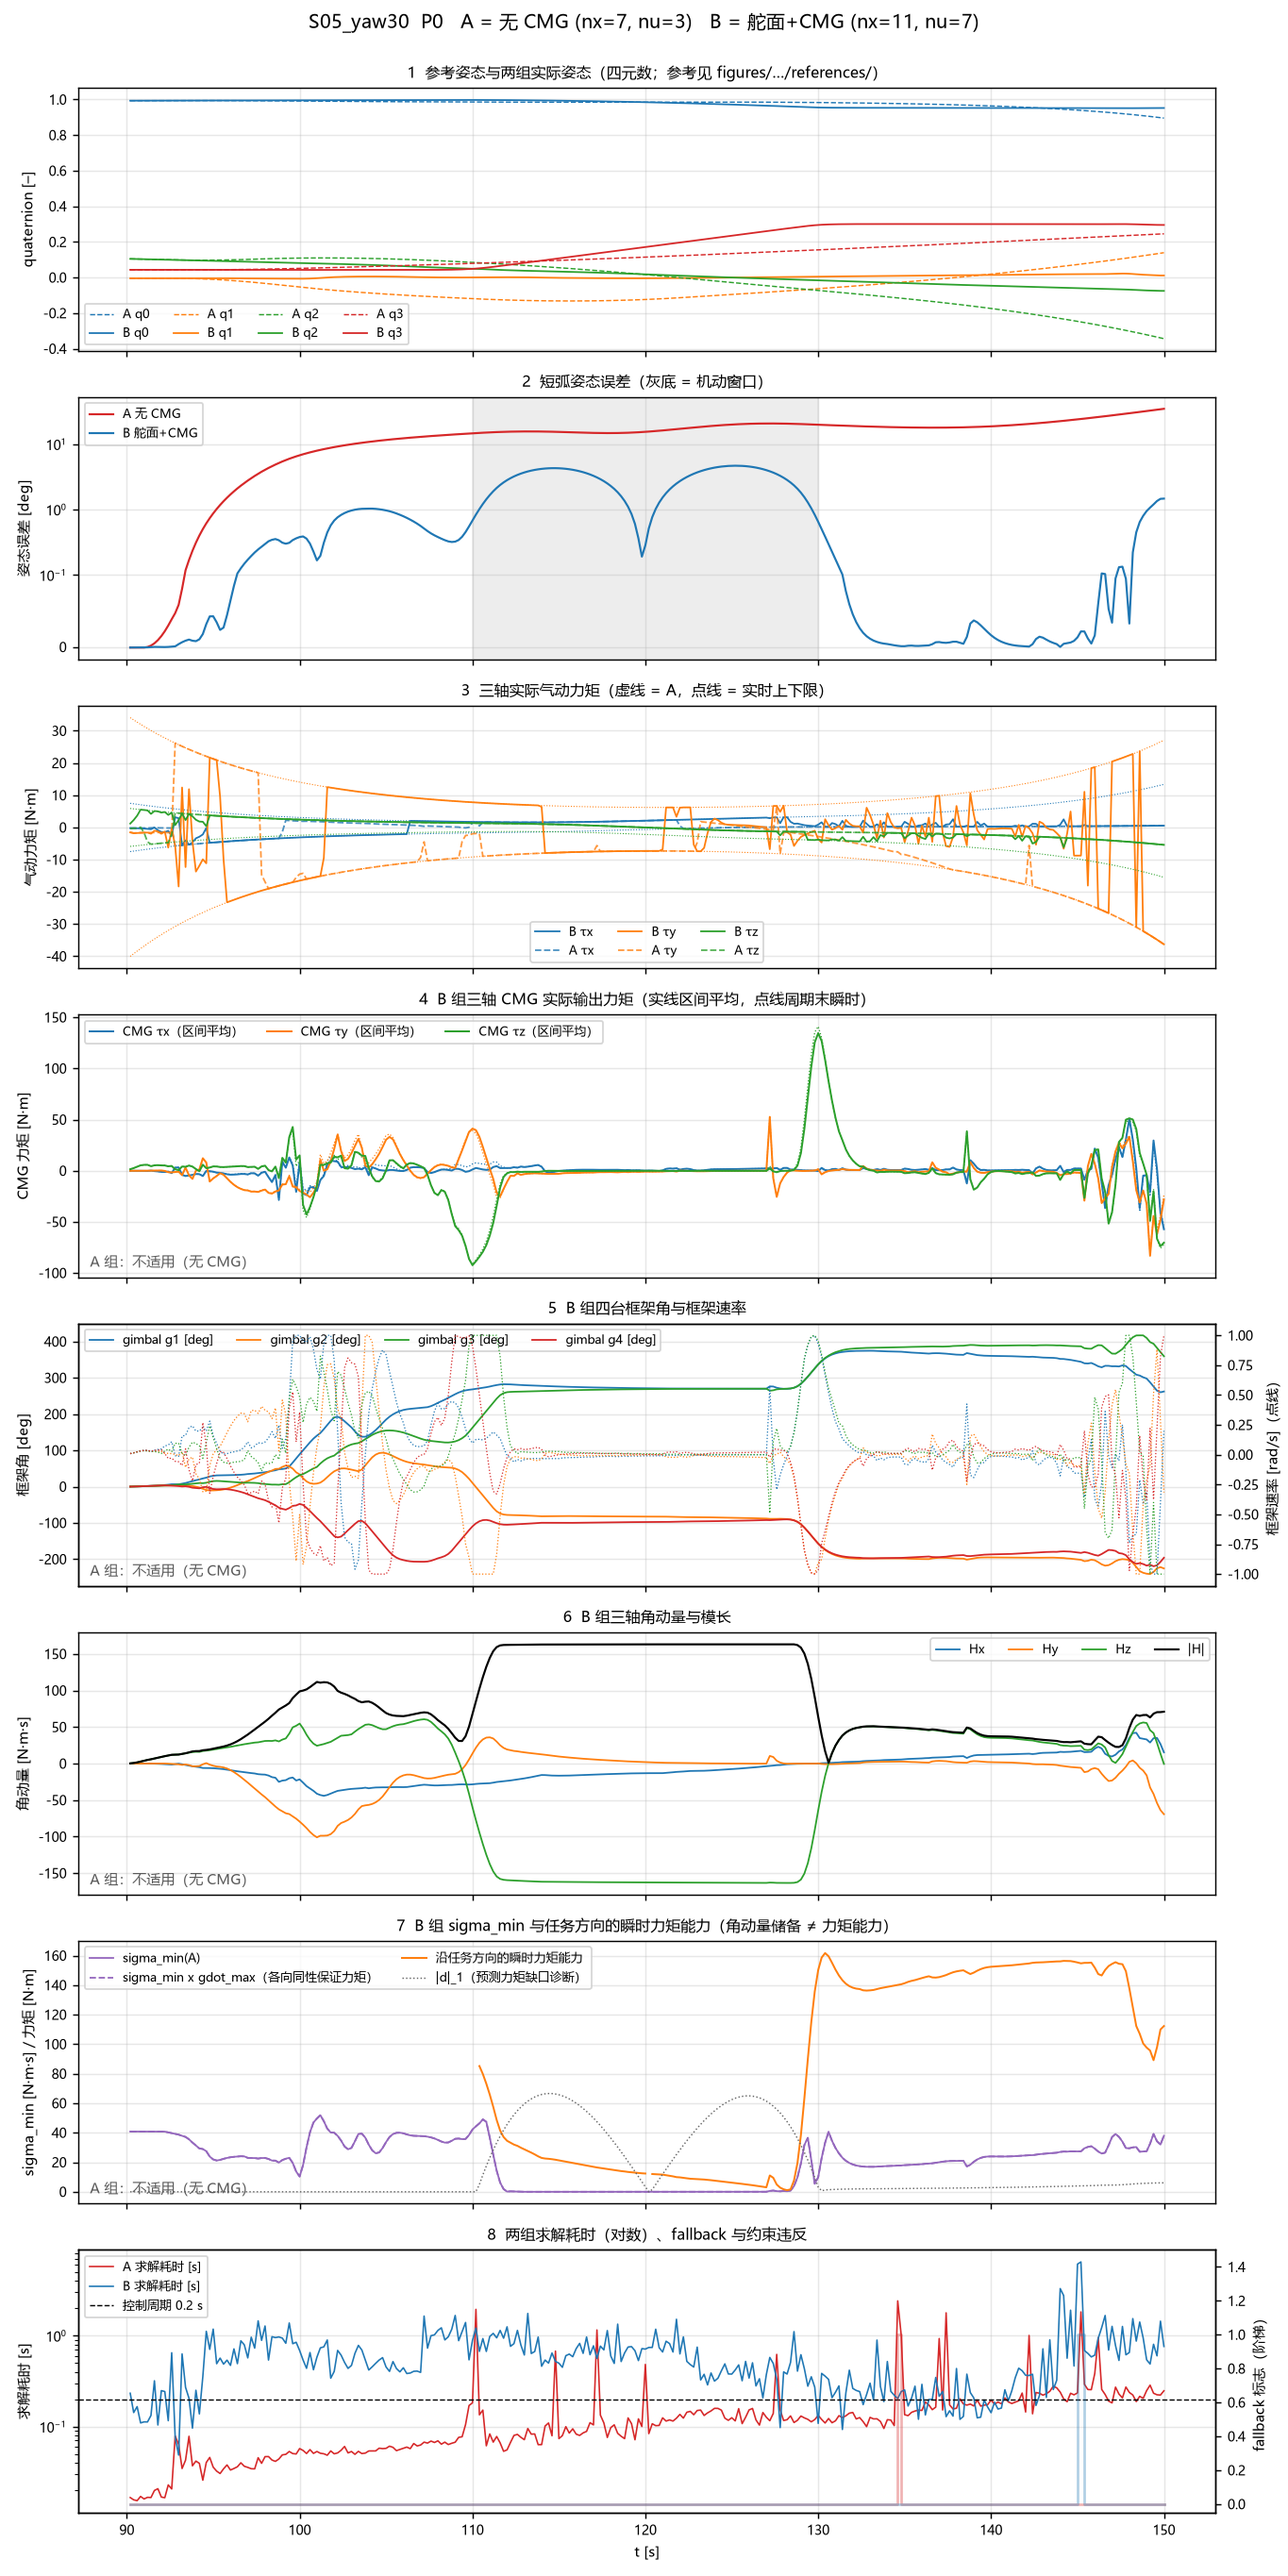
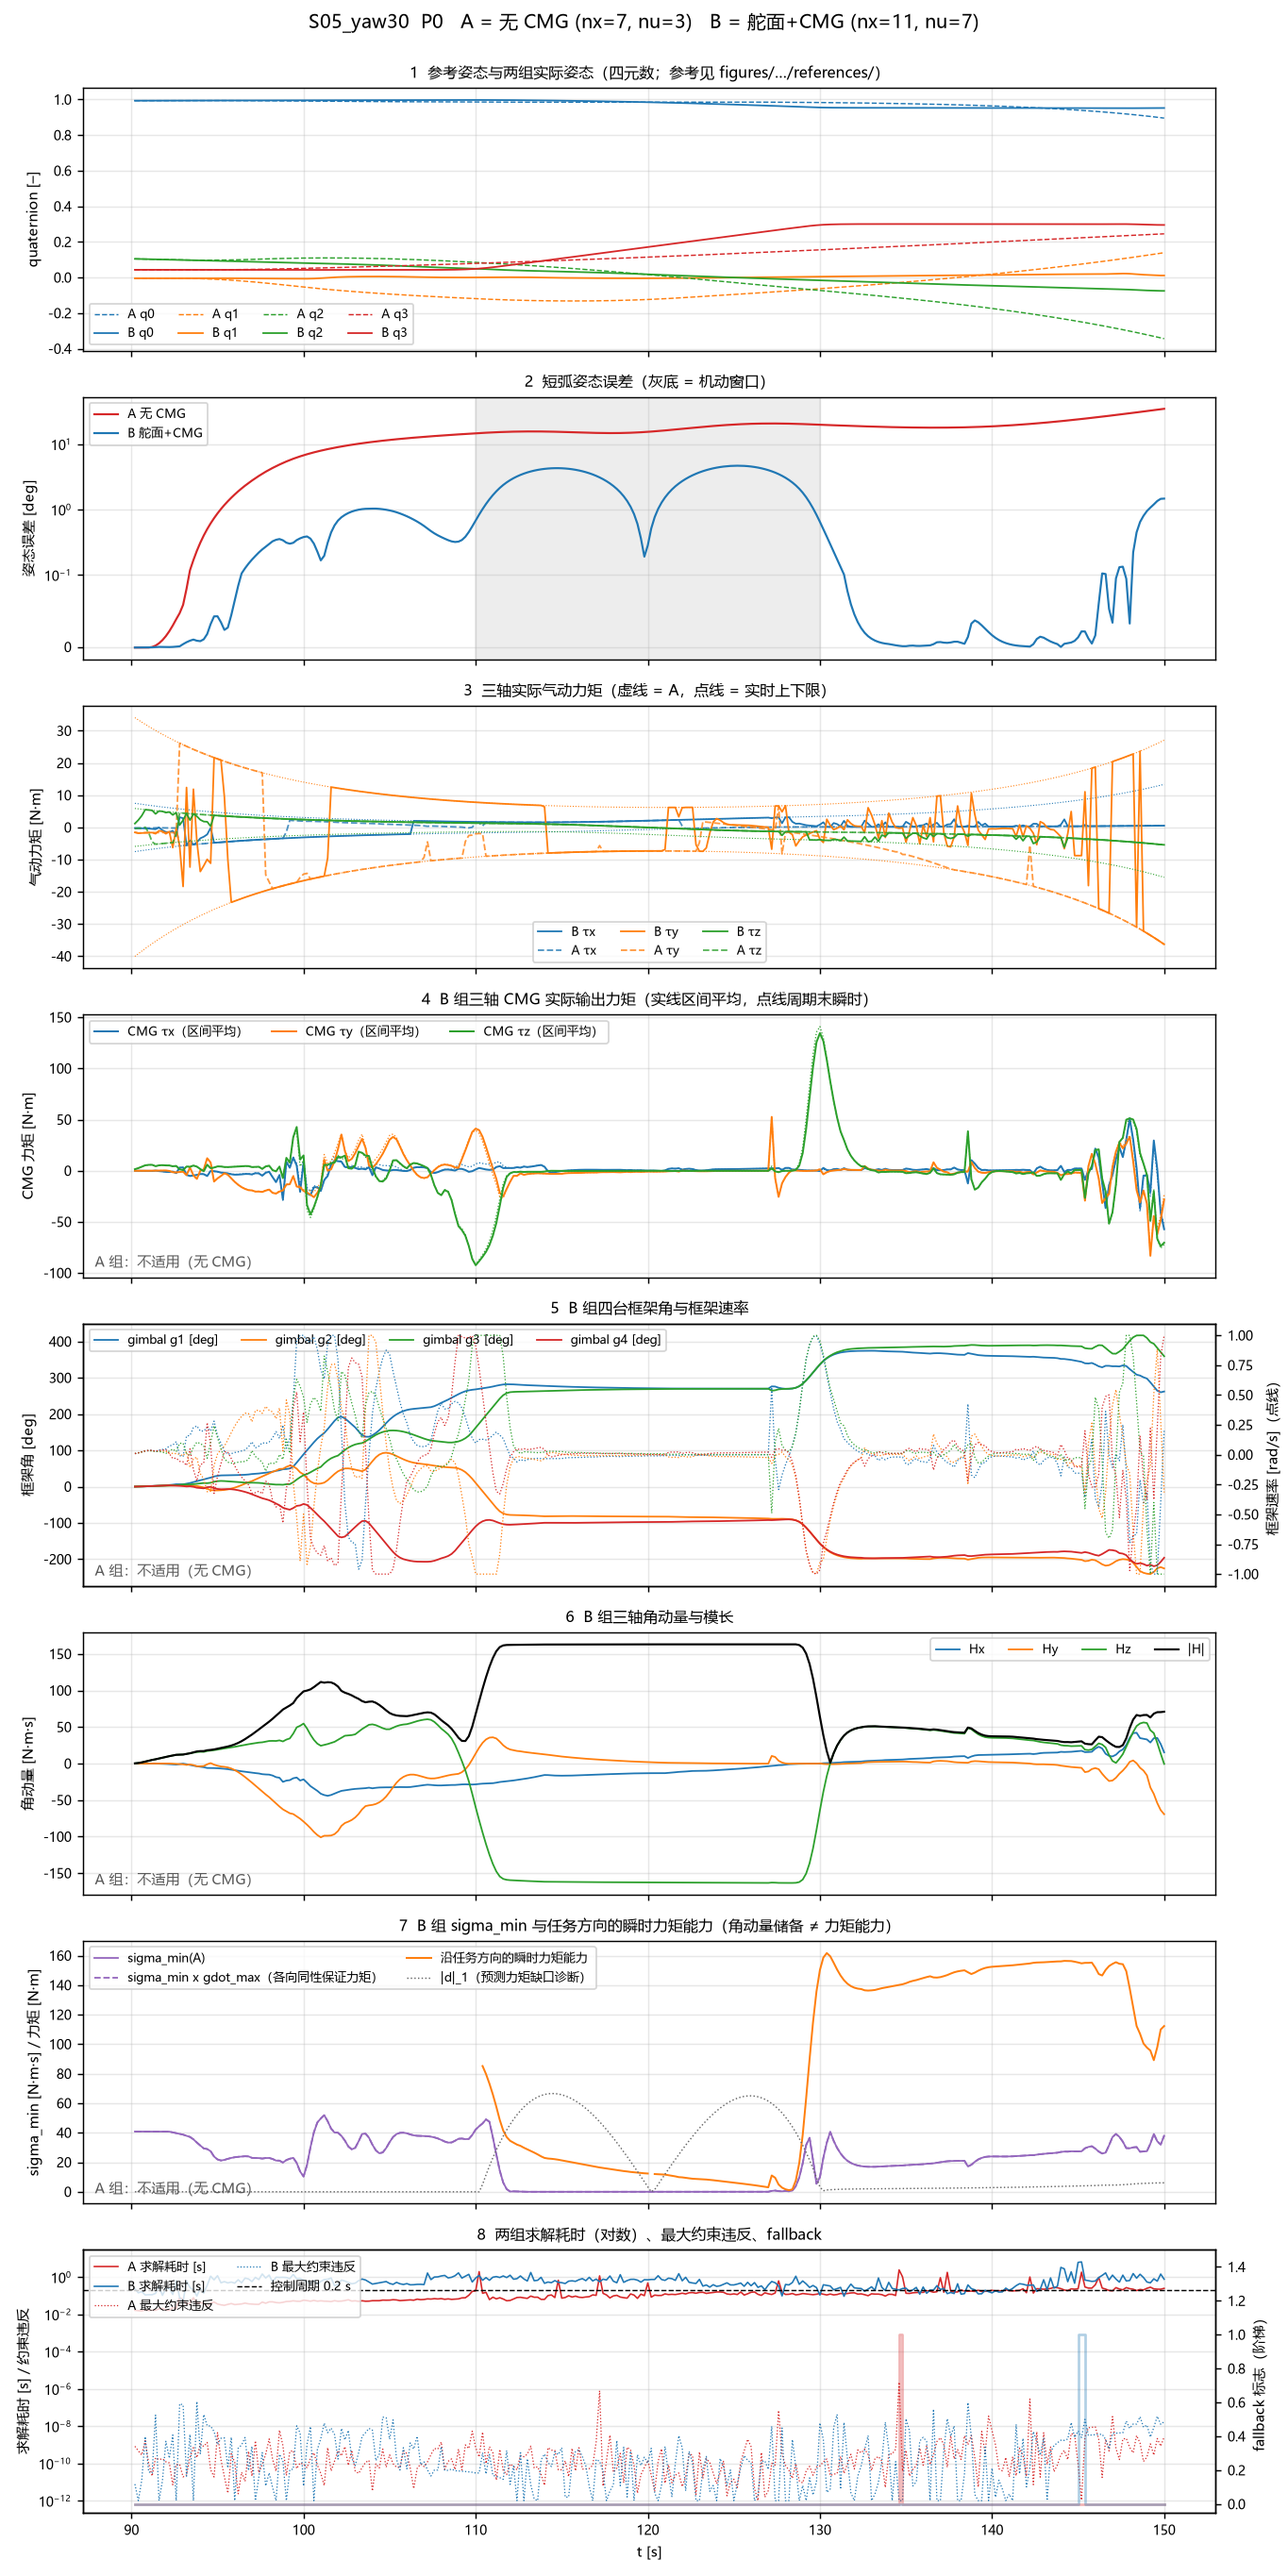
plot: add constraint-violation curves to the solver-reliability panel; report: note the non-conservative momentum management

diff --git a/scripts/plot_no_cmg_comparison.py b/scripts/plot_no_cmg_comparison.py
@@ -236,18 +236,22 @@ def fig_scenario(phase, sc, a, b, out_png):
     ax = axes[7]
     ax.plot(a["t_next"], a["cpu_s"], lw=0.9, color="C3", label="A 求解耗时 [s]")
     ax.plot(b["t_next"], b["cpu_s"], lw=0.9, color="C0", label="B 求解耗时 [s]")
+    ax.plot(a["t_next"], np.maximum(a["viol"], 1e-12), lw=0.7, ls=":",
+            color="C3", label="A 最大约束违反")
+    ax.plot(b["t_next"], np.maximum(b["viol"], 1e-12), lw=0.7, ls=":",
+            color="C0", label="B 最大约束违反")
     ax.axhline(0.2, color="k", ls="--", lw=0.8, label="控制周期 0.2 s")
     ax.set_yscale("log")
-    ax.set_ylabel("求解耗时 [s]")
+    ax.set_ylabel("求解耗时 [s] / 约束违反")
     ax.set_xlabel("t [s]")
     ax2 = ax.twinx()
     ax2.step(a["t_next"], a["fallback"], where="post", color="C3", alpha=0.35)
     ax2.step(b["t_next"], b["fallback"], where="post", color="C0", alpha=0.35)
     ax2.set_ylabel("fallback 标志（阶梯）")
     ax2.set_ylim(-0.05, 1.5)
-    ax.legend(loc="upper left")
+    ax.legend(loc="upper left", ncol=2)
     ax.grid(alpha=0.3)
-    ax.set_title("8  两组求解耗时（对数）、fallback 与约束违反")
+    ax.set_title("8  两组求解耗时（对数）、最大约束违反、fallback")
     fig.tight_layout(rect=(0, 0, 1, 0.995))
     FIG.mkdir(parents=True, exist_ok=True)
     fig.savefig(out_png, dpi=130)

diff --git a/docs/torque_gap/no_cmg_vs_cmg_scenario_experiment.md b/docs/torque_gap/no_cmg_vs_cmg_scenario_experiment.md
@@ -222,6 +222,12 @@ P1 中舵偏位置饱和达 25%（S00）。
   并单独给出 σmin 的原因。
 - **构型迁移本身不构成有效辅助的证据**：S02 中迁移发生了（提前 18.2 s），
   但 A 组本来就能完成（0.845° 峰值误差），因此不能称为"必要辅助"。
+- **角动量管理不保守（能力边界之外的另一个问题）**：B 组在 90–150 s 内多次把 |H| 推到
+  158–163 N·m·s（满量程 200）再释放，例如 S07 的 |H| 时序为
+  25 → 88 → 147 → 158 → 50 → 158 → 49 → 133 → 103 → 71 → 47 → 111 N·m·s。
+  由于本配置链的框架角是无界连续变量，优化器会反复穿越高角动量状态而不保留储备；
+  这是"能完成任务"与"保留裕度"之间的取舍，本报告如实记录，未为此调整任何权重
+  （指导书 §14.4 禁止为制造迁移而改目标函数）。
 
 ## 10. 多种子稳健性
 
